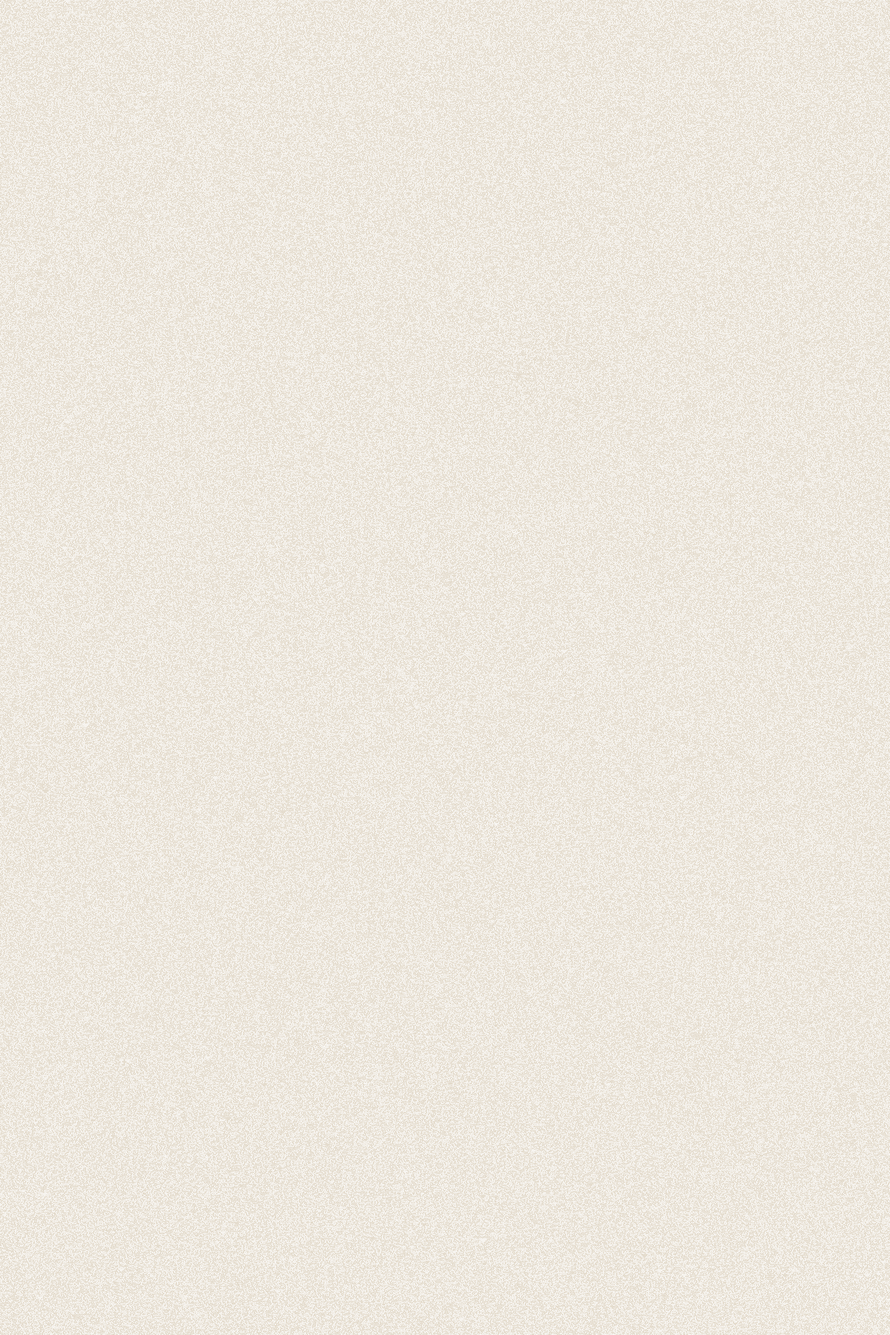
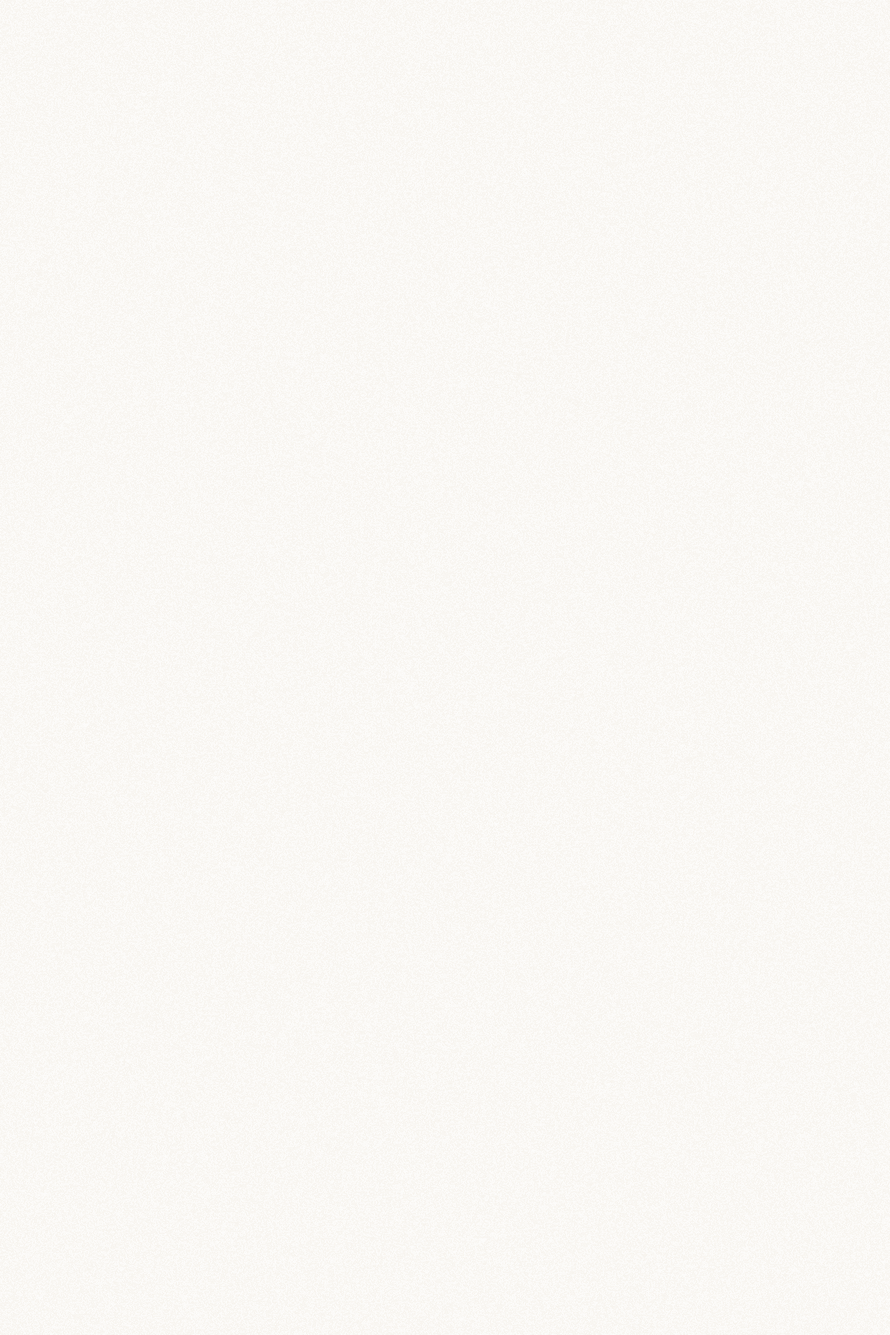
tes

diff --git a/SP_rating/styles.css b/SP_rating/styles.css
@@ -5,11 +5,12 @@ body, html {
   height: 100%;
 }
 
-  body {
-  background-image: url("https://raw.githubusercontent.com/evanapplegate/evanapplegate.github.io/main/SP_rating/noise8.png");
-  background-color: #FEFAF6;
-  font-family: -apple-system, BlinkMacSystemFont, 'Helvetica Neue', 'Arial', sans-serif;
-}
+body {
+background-image: url("https://raw.githubusercontent.com/evanapplegate/evanapplegate.github.io/main/SP_rating/noise8.png");
+background-color: #FEFAF6;
+font-family: -apple-system, BlinkMacSystemFont, 'Helvetica Neue', 'Arial', sans-serif;
+background-size: 50%; 
+    }
 
 h1 {
 	text-align: center;
